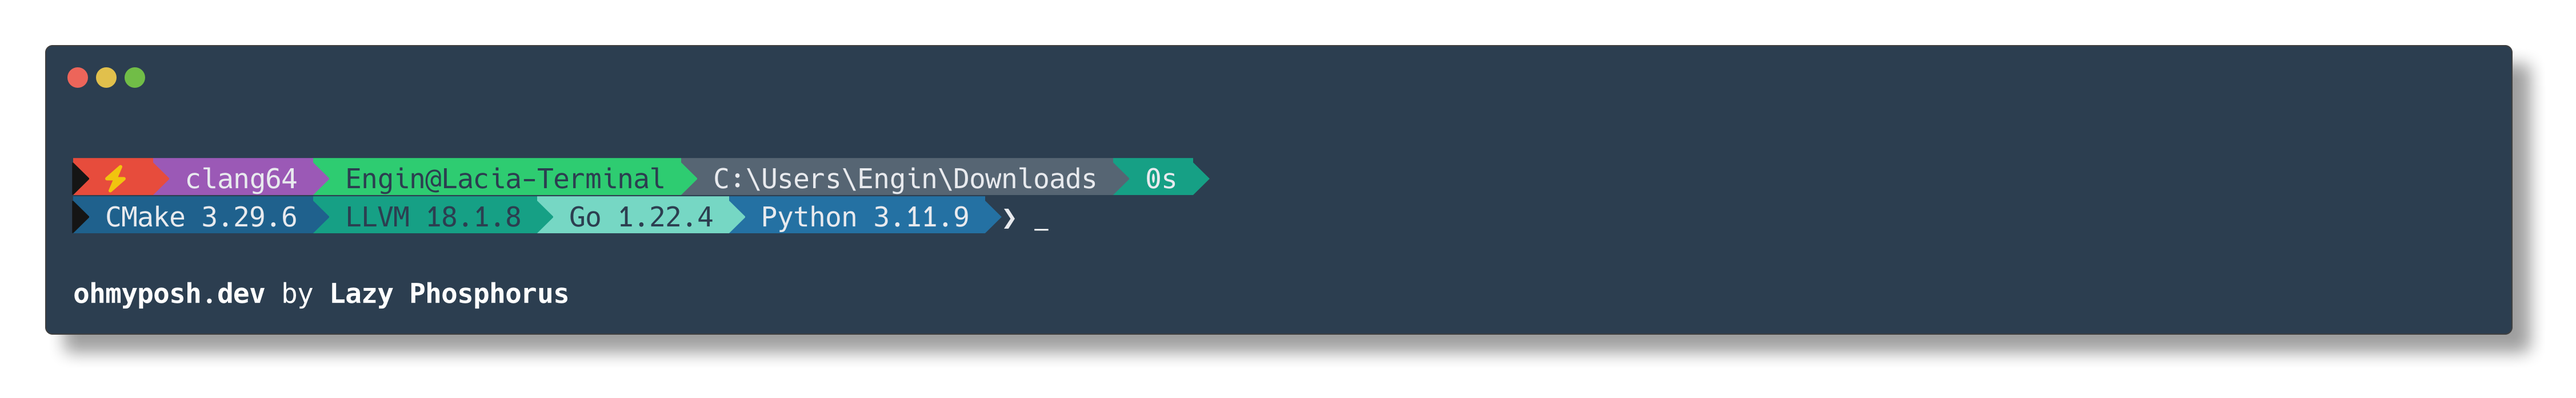
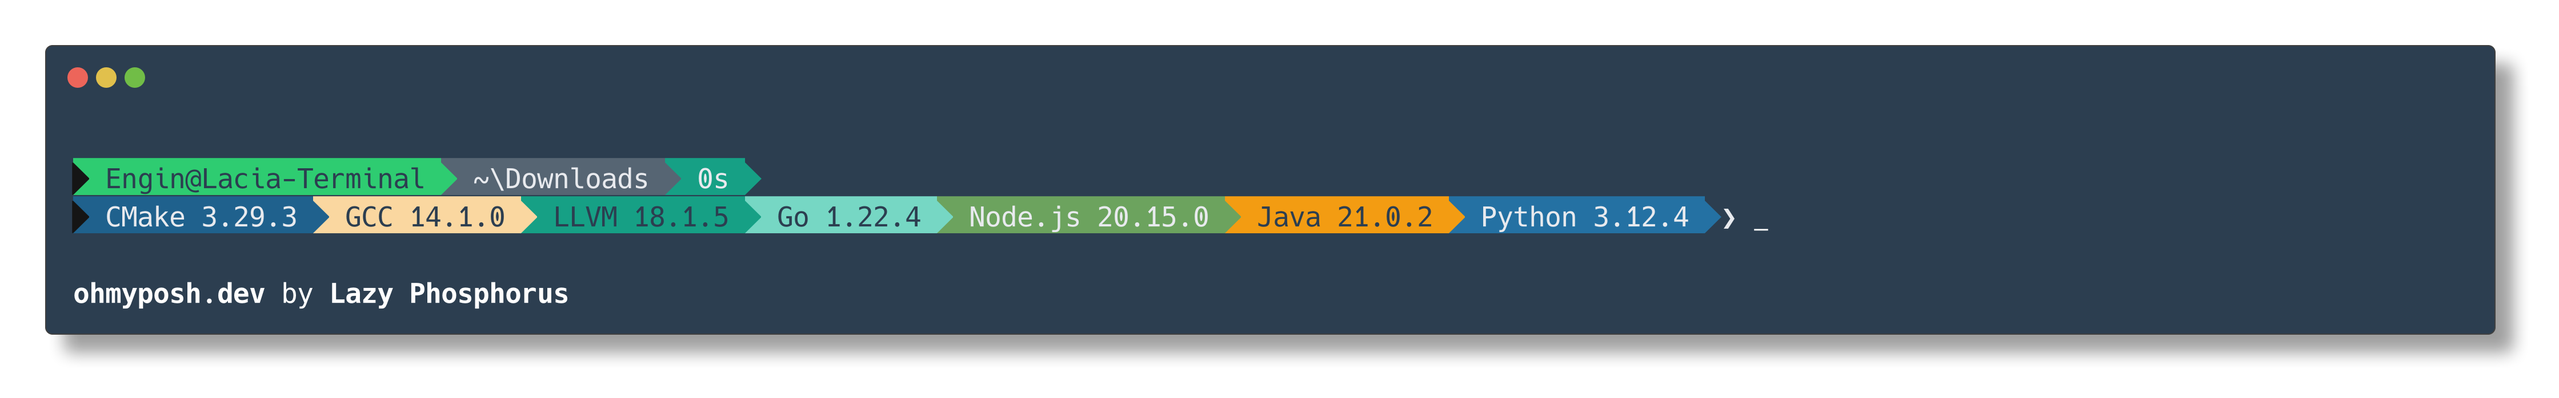
添加 MSYS2 与非 MSYS2 环境的预览

Changed region(s): [[0.031, 0.3911, 0.6827, 0.6017], [0.031, 0.7221, 0.2172, 0.7822]]

diff --git a/README.md b/README.md
@@ -1,8 +1,14 @@
 # SHELL-LP
 
+![preview](./msys2-preview.png "MSYS2 Bash 预览图")
+
 ![preview](./preview.png "预览图")
 
 This repository is a customized theme of [Oh My Posh](https://ohmyposh.dev/).
+
+## Prequisite
+
+[BusyBox](https://www.busybox.net/) should be correctly installed if you want to use this theme on Windows.
 
 ## Usage
 
@@ -18,7 +24,7 @@ To use oh-my-posh in msys2 bash, you should install oh-my-posh in Windows and ad
 
 ```shell
 export PATH=$PATH:/c/Users/[your username]/AppData/Local/Programs/oh-my-posh/bin
-export MSYS_ENV=$(echo $MSYSTEM_PREFIX | awk -v FS='/' '{print $2}')
+export MSYS_ENV=${MSYSTEM_PREFIX:1}
 eval "$(oh-my-posh init bash --config '/path/to/posh.json')"
 ```
 
